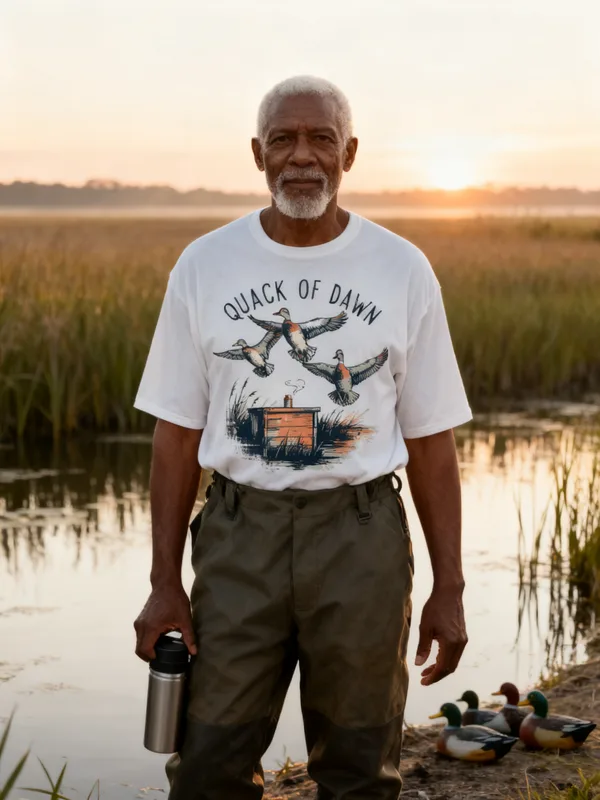
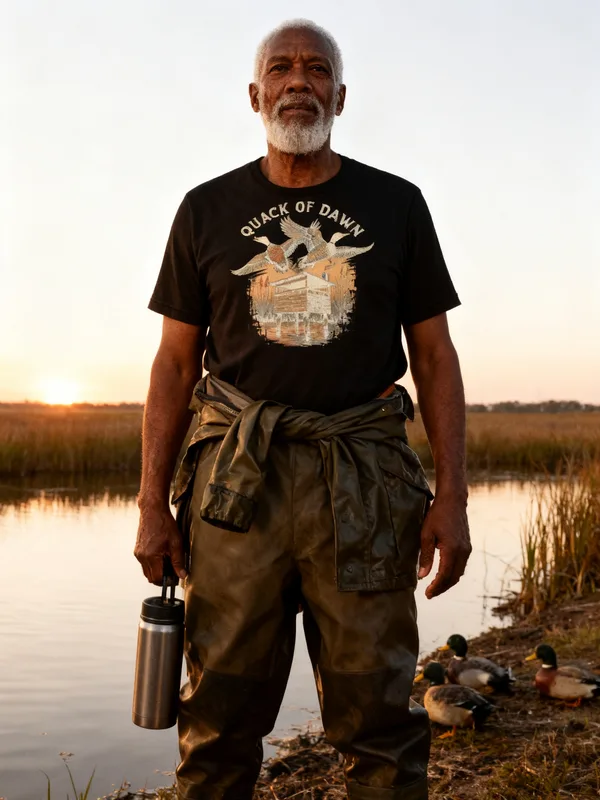
[B] redo 158 -> review

diff --git a/docs/intake-log.md b/docs/intake-log.md
@@ -1,3 +1,4 @@
+2026-10-16 18:29 UTC — [B] REVIEW #158 (redo): in-place redo of the ACTIVE product: new Recraft art (Quack of Dawn, try 1), cream-ink dark file 1087737958 for the 5 dark colors and original-ink file 1087737940 for Soft Cream/White, variants re-syncing, new mockups + variant images + cover (#228, try 2: try 1 had an open jacket cropping the print), copy already matched.
 2026-10-16 18:25 UTC — [B] REVIEW #157 (redo): in-place redo of the ACTIVE product: new Recraft art (No Deer Today; gen 2 had DEEER misspelled, gen 3 kept, spelling checked), cream-ink dark file 1087735820 for the 5 dark colors and original-ink file 1087735805 for Soft Cream/White, variants re-syncing, new mockups + variant images + cover (#227), copy already matched. Also re-cropped the #155 and #177 covers (the crop trimmed the sky and clipped the top of the head).
 2026-10-16 18:21 UTC — [B] REVIEW #156 (redo): in-place redo of the ACTIVE product: new Recraft art (Casting Doubt, 2 generations: try 1's line did not form a question mark), cream-ink dark file 1087732785 for 5 dark colors and original-ink file 1087732775 for Soft Cream/White, 60 variants re-syncing, new mockups + variant images + cover (#226, try 1), copy already matched.
 2026-10-16 18:16 UTC — [B] REVIEW #163 (redo): in-place redo of the ACTIVE product: new Recraft art (Beach Body Pending, try 1), single light-ink file 1087730069 for all 4 light colors, 32 variants re-syncing, new mockups + variant images + cover (#233), copy updated for the new colors (orange and brown, no navy).

diff --git a/docs/pipeline/158-hunting-marsh-morning-redo.md b/docs/pipeline/158-hunting-marsh-morning-redo.md
@@ -1,4 +1,4 @@
-status: BUILDING [B] 2026-10-16
+status: REVIEW
 reason: paused for cold-weather, resume after (Sam, 2026-10-16: evergreen tees wait until every cold-weather collection reaches 14, R11.5).
 lane: B
 type: redo
@@ -24,3 +24,4 @@ handle: mens-hunting-marsh-morning-graphic-tee
 - 2026-10-16 12:53 UTC [B]: run stopped by fal.ai lock (TOP_UP): file hosting + cover generation blocked. Nothing changed on the live product. Note: Shopify draft products for 167 (15360931430704) and 168 (15360933036336) already exist with copy and no media; Printful sync products 482163651 / 482163786 exist (168 variants unmapped, needs catalog variant mapping).
 - 2026-10-16 14:26 UTC director: PARKED for the cold-weather push (R11.5).
 - 2026-10-16 16:39 UTC Claude: Sam wants every weak men's shirt redone now; READY for lane B alongside cold-weather.
+- 2026-10-16 18:29 UTC [B]: REDO done: in-place redo of the ACTIVE product: new Recraft art (Quack of Dawn, try 1), cream-ink dark file 1087737958 for the 5 dark colors and original-ink file 1087737940 for Soft Cream/White, variants re-syncing, new mockups + variant images + cover (#228, try 2: try 1 had an open jacket cropping the print), copy already matched. Review sheet docs/review/158.jpg.
